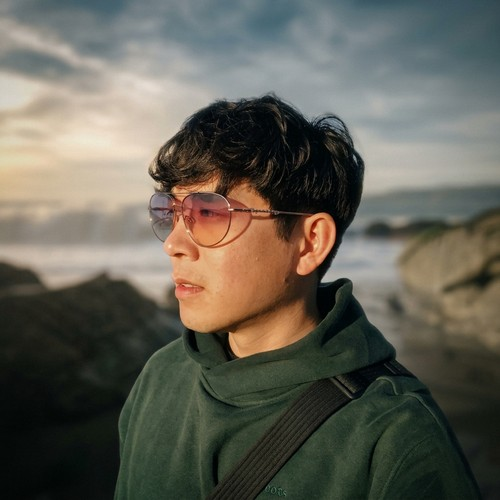
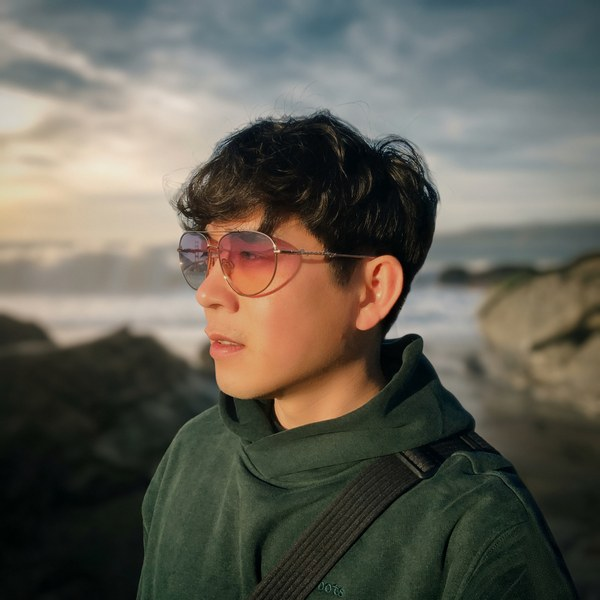
Website: higher-quality profile photo
Claude-Session: https://claude.ai/code/session_0146S6LSxkhS3N89ctyhZ7u4

diff --git a/index.html b/index.html
@@ -382,7 +382,7 @@
 
 <main>
   <header class="intro">
-    <img class="photo" src="images/profile.jpg?v=2026-11-17" alt="Kevin C. K. Ma">
+    <img class="photo" src="images/profile.jpg?v=2026-11-17b" alt="Kevin C. K. Ma">
     <div>
       <h1>Kevin <span class="initials">C. K.</span> Ma <a class="cred" href="research/">PhD</a></h1>
       <p class="role"><strong>Marine Ecologist</strong> · Postdoc · He/him<br>Biodiversity Research Centre · University of British Columbia</p>
